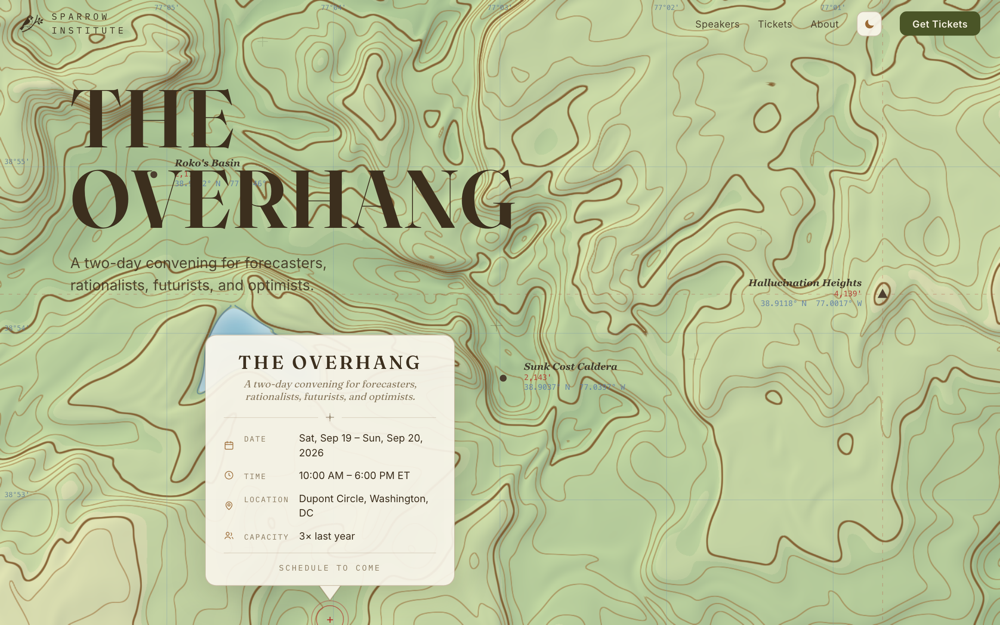
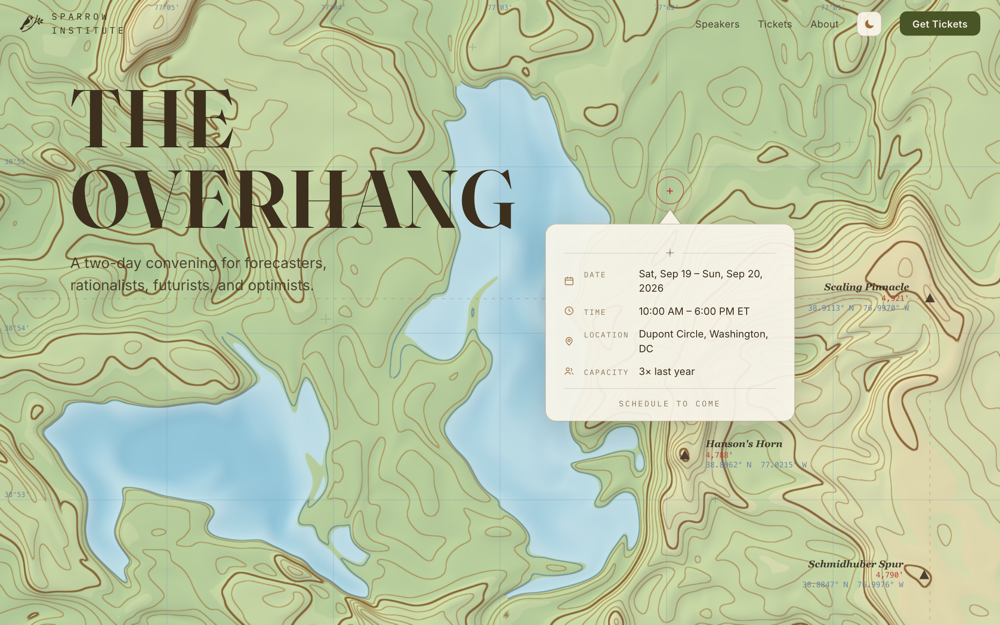
fix: density-independent topo scale, UI-aware POI labels, info-card layout
- Terrain scale is now a fixed CSS-px factor instead of tracking
  viewport size, so contours render at the same physical size on
  phones instead of zooming denser.
- POI labels skip exclusion zones under [data-topo-avoid] elements
  (header, title, info card) and space themselves off the larger
  screen dimension so they stop stacking on narrow screens.
- Info card: marker + tail point up in both layouts, desktop card
  moved to the right side (67%) and drops the title/tagline the hero
  already shows.
- Section headings no longer wrap awkwardly against their rule line.

diff --git a/src/components/InfoCard.tsx b/src/components/InfoCard.tsx
@@ -36,10 +36,11 @@ const icon = {
 
 export function InfoCard({
   event,
-  tailDirection,
+  showTitle = true,
 }: {
   event: LumaEventInfo | null;
-  tailDirection: "down" | "up";
+  /** false on desktop, where the hero title already says all this */
+  showTitle?: boolean;
 }) {
   const rows = [
     { icon: icon.calendar, label: "Date", value: event ? formatDateRange(event) : "Sep 19 – 20, 2026" },
@@ -52,40 +53,27 @@ export function InfoCard({
     { icon: icon.people, label: "Capacity", value: "3× last year" },
   ];
 
-  const tail = (
-    <svg
-      className={`${styles.tail} ${tailDirection === "up" ? styles.tailUp : ""}`}
-      width="34"
-      height="24"
-      viewBox="0 0 34 24"
-    >
-      <path d="M1 0 L17 22 L33 0" fill="currentColor" stroke="var(--border)" strokeWidth="1.5" />
-    </svg>
-  );
-
-  const marker = (
-    <div className={styles.marker} aria-hidden>
-      <span className={styles.markerPulse} />
-      <span className={styles.markerRing} />
-      <span className={styles.markerCross}>+</span>
-    </div>
-  );
-
   return (
     <div className={styles.stack}>
-      {tailDirection === "up" && (
-        <>
-          {marker}
-          {tail}
-        </>
-      )}
+      <div className={styles.marker} aria-hidden>
+        <span className={styles.markerPulse} />
+        <span className={styles.markerRing} />
+        <span className={styles.markerCross}>+</span>
+      </div>
+      <svg className={`${styles.tail} ${styles.tailUp}`} width="34" height="24" viewBox="0 0 34 24">
+        <path d="M1 0 L17 22 L33 0" fill="currentColor" stroke="var(--border)" strokeWidth="1.5" />
+      </svg>
       <div className={styles.card}>
-        <div className={styles.title}>The Overhang</div>
-        <div className={styles.tagline}>
-          A two-day convening for forecasters,
-          <br />
-          rationalists, futurists, and optimists.
-        </div>
+        {showTitle && (
+          <>
+            <div className={styles.title}>The Overhang</div>
+            <div className={styles.tagline}>
+              A two-day convening for forecasters,
+              <br />
+              rationalists, futurists, and optimists.
+            </div>
+          </>
+        )}
         <div className={styles.rule}>{icon.compass}</div>
         <div className={styles.rows}>
           {rows.map((r) => (
@@ -94,12 +82,6 @@ export function InfoCard({
         </div>
         <div className={styles.schedule}>Schedule to come</div>
       </div>
-      {tailDirection === "down" && (
-        <>
-          {tail}
-          {marker}
-        </>
-      )}
     </div>
   );
 }

diff --git a/src/lib/topo.ts b/src/lib/topo.ts
@@ -147,7 +147,10 @@ vec3 nightRamp(float t){
 }
 void main(){
   vec2 pix = vec2(gl_FragCoord.x, u_outRes.y - gl_FragCoord.y) / u_outRes * u_cssRes;
-  float s = u_scale / max(u_cssRes.x, u_cssRes.y);
+  // fixed CSS-px world scale: CSS pixels are density-independent, so
+  // terrain features render at the same physical size on every screen
+  // instead of zooming with the viewport
+  float s = u_scale / 1400.0;
   vec2 p = vec2(pix.x * s * u_stretch, pix.y * s);
   float v = field(p, u_time);
   float v01 = clamp(v * 0.806 + 0.5, 0.0, 1.0);
@@ -631,10 +634,31 @@ export function createTopo(
       }
     }
 
+    // keep labels clear of page UI (header, cards, …): anything marked
+    // [data-topo-avoid] becomes an exclusion zone, padded for label text
+    const PAD = 36;
+    const avoid: { l: number; t: number; r: number; b: number }[] = [];
+    if (typeof document !== "undefined") {
+      document.querySelectorAll("[data-topo-avoid]").forEach((el) => {
+        const r = el.getBoundingClientRect();
+        if (r.width && r.height && r.bottom > -PAD && r.top < H + PAD)
+          avoid.push({ l: r.left - PAD, t: r.top - PAD, r: r.right + PAD, b: r.bottom + PAD });
+      });
+    }
+    const blocked = (px: number, py: number) => {
+      for (const z of avoid) {
+        // labels extend ~170px toward the text side; block that band too
+        const textPad = px > W * 0.72 ? 0 : 170;
+        if (px > z.l - textPad && px < z.r && py > z.t && py < z.b) return true;
+      }
+      return false;
+    };
+
     for (let j = 2; j < FH - 2; j++) {
       for (let i = 2; i < FW - 2; i++) {
         const px = (i + 0.5) * cellX, py = (j + 0.5) * cellY;
         if (px < 0.06 * W || px > 0.94 * W || py < 0.07 * H || py > 0.93 * H) continue;
+        if (blocked(px, py)) continue;
         const k = j * FW + i;
         const c = terrGrid[k];
         if (c === winMaxG[k]) { cands.push({ x: px, y: py, type: "peak", v: c, score: 0.9 + c }); continue; }
@@ -658,7 +682,9 @@ export function createTopo(
   function updateFeatures(now: number, W: number, H: number) {
     const cands = detectCandidates(W, H);
     const matchR = Math.min(W, H) * 0.16;
-    const minDist = Math.min(W, H) * 0.22;
+    // labels are ~200px wide regardless of screen, so keep spacing tied to
+    // the larger dimension — narrow phones otherwise stack labels
+    const minDist = Math.max(260, Math.max(W, H) * 0.22);
 
     for (const f of features) f.matched = false;
     for (const f of features) {

diff --git a/src/app/page.tsx b/src/app/page.tsx
@@ -18,7 +18,7 @@ export default async function Home() {
         <Header />
 
         <section className={styles.hero}>
-          <div className={styles.titleBlock}>
+          <div className={styles.titleBlock} data-topo-avoid>
             <h1 className={styles.title}>
               The
               <br />
@@ -29,12 +29,13 @@ export default async function Home() {
             </p>
           </div>
 
-          {/* desktop: tail down at 33% width; mobile: 2/3 down screen, tail up */}
-          <div className={`${styles.heroCard} ${styles.cardDesktop}`}>
-            <InfoCard event={event} tailDirection="down" />
+          {/* marker + tail point up in both layouts; desktop card sits on
+              the right and skips the title the hero already shows */}
+          <div className={`${styles.heroCard} ${styles.cardDesktop}`} data-topo-avoid>
+            <InfoCard event={event} showTitle={false} />
           </div>
-          <div className={`${styles.heroCard} ${styles.cardMobile}`}>
-            <InfoCard event={event} tailDirection="up" />
+          <div className={`${styles.heroCard} ${styles.cardMobile}`} data-topo-avoid>
+            <InfoCard event={event} />
           </div>
         </section>
 

diff --git a/src/app/globals.css b/src/app/globals.css
@@ -84,14 +84,18 @@ button { font-family: inherit; cursor: pointer; }
   font-size: 14px;
   letter-spacing: 0.22em;
   text-transform: uppercase;
+  white-space: nowrap; /* keep the label on one line; the rule takes the slack */
   color: var(--ink);
   display: flex;
   align-items: center;
   gap: 18px;
+  flex: 1;
+  min-width: 0;
 }
 .section-title::after {
   content: "";
-  flex: 0 1 220px;
+  flex: 1 1 40px;
+  max-width: 260px;
   height: 1px;
   background: var(--border);
 }

diff --git a/src/app/page.module.css b/src/app/page.module.css
@@ -31,12 +31,12 @@
   opacity: 0.85;
 }
 
-/* card centered at 33% of site width, tail pointing down */
+/* card on the right side of the screen, marker + tail pointing up */
 .heroCard {
   position: absolute;
-  left: 33%;
+  left: 67%;
   transform: translateX(-50%);
-  top: clamp(300px, 42dvh, 480px);
+  top: clamp(120px, 20dvh, 260px);
   z-index: 2; /* paint above the solid section so the marker never clips */
 }
 

diff --git a/src/components/Header.tsx b/src/components/Header.tsx
@@ -23,7 +23,7 @@ export function Header() {
   }, []);
 
   return (
-    <header className={`${styles.header} ${scrolled || menuOpen ? styles.scrolled : ""}`}>
+    <header className={`${styles.header} ${scrolled || menuOpen ? styles.scrolled : ""}`} data-topo-avoid>
       {/* mobile: menu on the left */}
       <button
         className={`${styles.iconBtn} ${styles.menuToggle}`}
